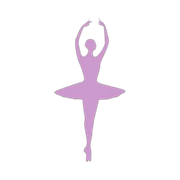
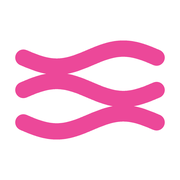
update

Changed region(s): [[0.0833, 0.1111, 0.9167, 0.9167]]

diff --git a/src/components/Logo.jsx b/src/components/Logo.jsx
@@ -1,15 +1,12 @@
 import React from 'react';
+import { Waves } from 'lucide-react';
 import { useTheme } from '../contexts/ThemeContext';
-import mark from '../assets/logo-mark.png';
-import markWhite from '../assets/logo-mark-white.png';
-import strip from '../assets/logo-strip.png';
-import stripWhite from '../assets/logo-strip-white.png';
 
 /**
- * Sport Academy logo (ballet mark).
+ * Sport Academy logo (wave mark).
  *
- * variant: "mark" (single dancer, for small square spots — icon boxes, favicon)
- *          | "full" (5-dancer strip + "SPORT ACADEMY" wordmark, for spots with horizontal room)
+ * variant: "mark" (wave glyph, for small square spots — icon boxes, favicon)
+ *          | "full" (wave glyph + "SPORT ACADEMY" wordmark, for spots with horizontal room)
  * tone:    "auto" (dark text on light theme, white on dark) | "navy" | "white"
  *
  * Pass width/height via className or style as usual. For "full", height
@@ -18,11 +15,12 @@ import stripWhite from '../assets/logo-strip-white.png';
 const Logo = ({ variant = 'mark', tone = 'auto', className = '', style, alt = 'Sport Academy' }) => {
   const { isDark } = useTheme();
   const white = tone === 'white' || (tone === 'auto' && isDark);
+  const iconColor = white ? '#fff' : '#EC4899';
 
   if (variant === 'full') {
     return (
       <div className={`flex items-center gap-2.5 ${className}`} style={style}>
-        <img src={white ? stripWhite : strip} alt={alt} draggable={false} style={{ objectFit: 'contain', height: '100%', width: 'auto' }} />
+        <Waves aria-label={alt} color={iconColor} strokeWidth={2.25} style={{ height: '100%', width: 'auto' }} />
         <div className="flex flex-col leading-none">
           <span className="font-black tracking-tight text-xl" style={{ color: white ? '#fff' : 'var(--text-primary)' }}>
             SPORT
@@ -36,13 +34,7 @@ const Logo = ({ variant = 'mark', tone = 'auto', className = '', style, alt = 'S
   }
 
   return (
-    <img
-      src={white ? markWhite : mark}
-      alt={alt}
-      className={className}
-      style={{ objectFit: 'contain', ...style }}
-      draggable={false}
-    />
+    <Waves aria-label={alt} color={iconColor} strokeWidth={2} className={className} style={style} />
   );
 };
 

diff --git a/src/services/studentService.js b/src/services/studentService.js
@@ -11,8 +11,8 @@ import {
   orderBy,
   serverTimestamp 
 } from 'firebase/firestore';
-import { createUserWithEmailAndPassword } from 'firebase/auth';
-import { db, auth } from '../firebase/config';
+import { createUserWithEmailAndPassword, signOut } from 'firebase/auth';
+import { db, getSecondaryAuth } from '../firebase/config';
 
 const STUDENTS_COLLECTION = 'students';
 
@@ -26,14 +26,17 @@ export const addStudent = async (studentData) => {
       throw new Error('Email and password are required for student account');
     }
 
-    // Create Firebase Authentication account
+    // Create Firebase Authentication account on a secondary auth instance so
+    // the admin's own session isn't replaced by the newly created student.
+    const secondaryAuth = getSecondaryAuth();
     const userCredential = await createUserWithEmailAndPassword(
-      auth, 
-      studentData.email, 
+      secondaryAuth,
+      studentData.email,
       studentData.password
     );
-    
+
     const uid = userCredential.user.uid;
+    await signOut(secondaryAuth);
 
     // Create student document in Firestore with the Auth UID as document ID
     const studentDoc = {

diff --git a/src/firebase/config.js b/src/firebase/config.js
@@ -1,4 +1,4 @@
-import { initializeApp } from 'firebase/app';
+import { initializeApp, getApps } from 'firebase/app';
 import { getAuth } from 'firebase/auth';
 import { getFirestore } from 'firebase/firestore';
 
@@ -25,6 +25,16 @@ try {
 } catch (error) {
   console.error('❌ Firebase initialization error:', error);
 }
+
+// Secondary app/auth instance used only for creating student accounts.
+// createUserWithEmailAndPassword() signs in as the account it just created
+// on whichever auth instance it's called with — running it here instead of
+// on the primary `auth` keeps the admin's session untouched.
+export const getSecondaryAuth = () => {
+  const secondaryApp = getApps().find((a) => a.name === 'Secondary')
+    || initializeApp(firebaseConfig, 'Secondary');
+  return getAuth(secondaryApp);
+};
 
 export { auth, db };
 export default app;

diff --git a/src/pages/Login.jsx b/src/pages/Login.jsx
@@ -30,6 +30,7 @@ const Login = () => {
       toast.success(t('login.welcomeBack'));
       navigate('/dashboard');
     } catch (error) {
+      console.error('[Login] auth failed:', error.code || error.message, error);
       if (error.message === 'student_account') {
         toast.error(t('login.isStudent'));
       } else if (error.code === 'auth/user-not-found' || error.code === 'auth/wrong-password' || error.code === 'auth/invalid-credential') {
